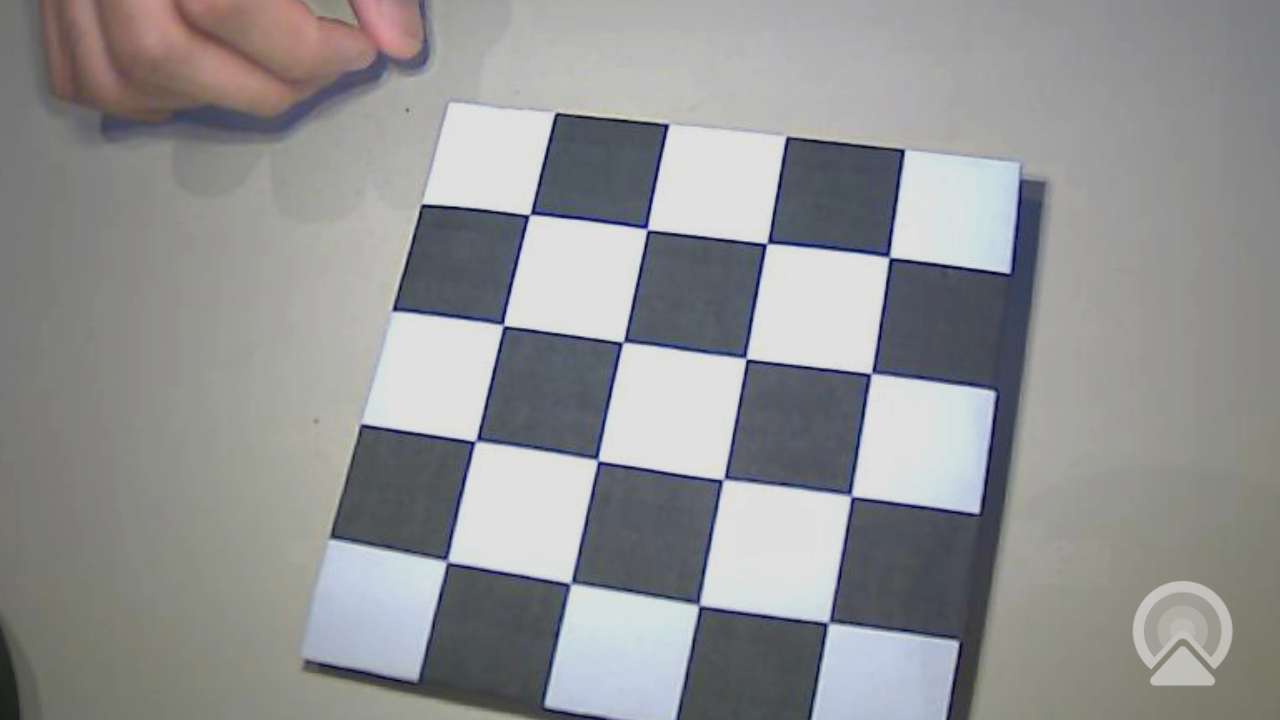
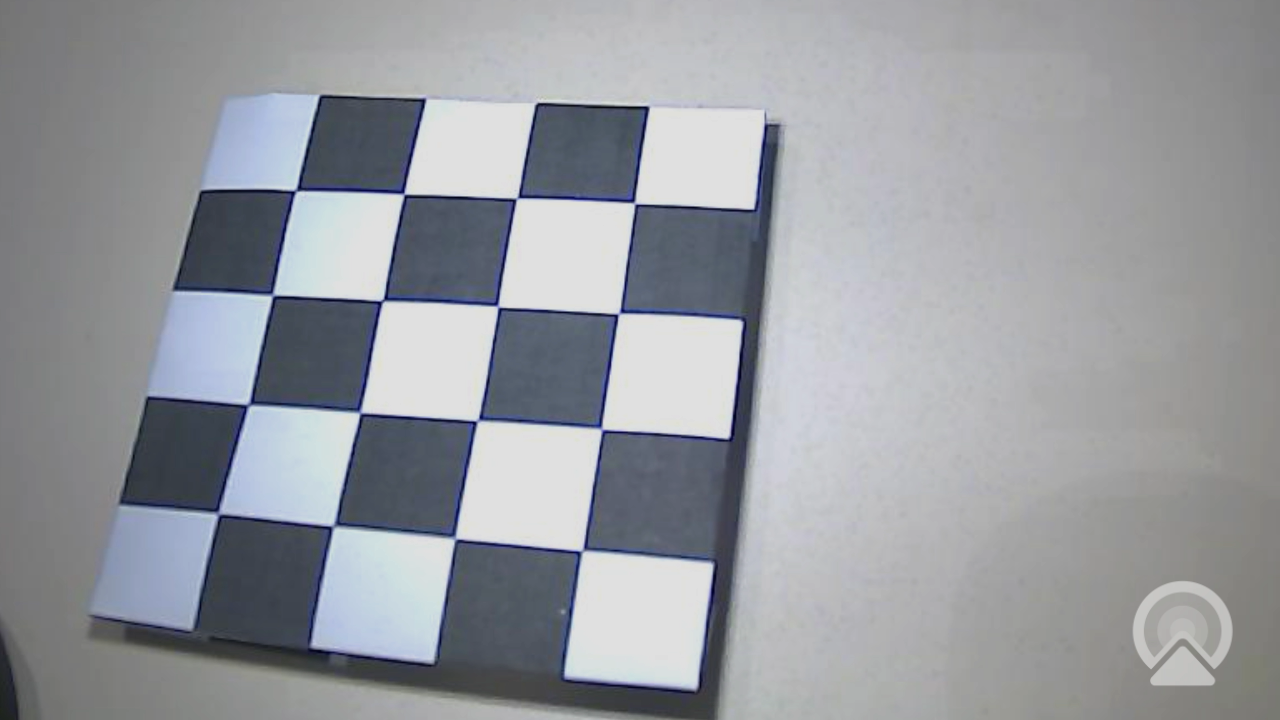
txt

diff --git a/source_code/AI/main_motion_plan.py b/source_code/AI/main_motion_plan.py
@@ -1,103 +1,96 @@
 def run_motion(ctx):
-    """Stack order requested by user: Blue on green and red on blue.
+    """Stacking plan based on current block coordinates.
 
-    Final stack:
-    bottom = green
-    middle = blue
-    top = red
+    User request:
+    - Place RED block on the GREEN block
+    - Place BLUE block on the RED block
 
-    Important:
-    - Add +90 to the true yaw angles of the blocks in code for gripper alignment.
-    - Block object positions are already available/consistent with the current RoboDK context.
+    Note: Add +90 to the true yaw angles of the blocks in this generated code
+    to align the gripper laterally for gripping.
     """
 
     robot = ctx.robot
 
     # ------------------------------------------------------------
-    # World coordinates of blocks (from current query)
+    # World coordinates of blocks (from get_world_coords_string)
     # ------------------------------------------------------------
-    red_x, red_y = 20.162, 9.737
-    red_yaw = 91.0783 + 90
+    red_x, red_y = 82.791, 56.399
+    red_yaw = 55.0003 + 90
 
-    green_x, green_y = 161.319, 75.452
-    green_yaw = 14.3145 + 90
+    green_x, green_y = 21.822, -22.004
+    green_yaw = 149.8728 + 90
 
-    blue_x, blue_y = 81.481, 49.459
-    blue_yaw = 52.3926 + 90
+    blue_x, blue_y = -13.848, 72.704
+    blue_yaw = 81.0174 + 90
 
-    # Z parameters
+    # ------------------------------------------------------------
+    # Z heights
+    # ------------------------------------------------------------
     approach_z = ctx.approach_z
     pick_z = ctx.pick_z
     place_base_z = ctx.place_base_z
     block_thickness = ctx.block_thickness
 
-    # Use green's footprint as the stack location
+    # Stack at the GREEN x/y (bottom)
     stack_x = green_x
     stack_y = green_y
-    stack_orient = green_yaw
 
     green_place_z = place_base_z
-    blue_place_z = place_base_z + block_thickness
-    red_place_z = place_base_z + block_thickness * 2.0
+    red_place_z = place_base_z + block_thickness
+    blue_place_z = place_base_z + block_thickness * 2.0
+
+    # Use GREEN orientation for all place steps so alignment is consistent
+    stack_orient = green_yaw
 
     # ------------------------------------------------------------
-    # Pick GREEN (bottom)
+    # Pick GREEN
     # ------------------------------------------------------------
     ctx.open_gripper("green")
-
     robot.MoveL(ctx.pose_xyz_yaw(green_x, green_y, approach_z, green_yaw))
     robot.MoveL(ctx.pose_xyz_yaw(green_x, green_y, pick_z, green_yaw))
-
     ctx.close_gripper("green")
-
     robot.MoveL(ctx.pose_xyz_yaw(green_x, green_y, approach_z, green_yaw))
 
-    # Place GREEN
+    # ------------------------------------------------------------
+    # Place GREEN (bottom)
+    # ------------------------------------------------------------
     robot.MoveL(ctx.pose_xyz_yaw(stack_x, stack_y, approach_z, stack_orient))
     robot.MoveL(ctx.pose_xyz_yaw(stack_x, stack_y, green_place_z, stack_orient))
-
     ctx.open_gripper("green")
-
     robot.MoveL(ctx.pose_xyz_yaw(stack_x, stack_y, approach_z, stack_orient))
 
     # ------------------------------------------------------------
-    # Pick BLUE (middle)
-    # ------------------------------------------------------------
-    ctx.open_gripper("blue")
-
-    robot.MoveL(ctx.pose_xyz_yaw(blue_x, blue_y, approach_z, blue_yaw))
-    robot.MoveL(ctx.pose_xyz_yaw(blue_x, blue_y, pick_z, blue_yaw))
-
-    ctx.close_gripper("blue")
-
-    robot.MoveL(ctx.pose_xyz_yaw(blue_x, blue_y, approach_z, blue_yaw))
-
-    # Place BLUE on GREEN
-    robot.MoveL(ctx.pose_xyz_yaw(stack_x, stack_y, approach_z, stack_orient))
-    robot.MoveL(ctx.pose_xyz_yaw(stack_x, stack_y, blue_place_z, stack_orient))
-
-    ctx.open_gripper("blue")
-
-    robot.MoveL(ctx.pose_xyz_yaw(stack_x, stack_y, approach_z, stack_orient))
-
-    # ------------------------------------------------------------
-    # Pick RED (top)
+    # Pick RED
     # ------------------------------------------------------------
     ctx.open_gripper("red")
-
     robot.MoveL(ctx.pose_xyz_yaw(red_x, red_y, approach_z, red_yaw))
     robot.MoveL(ctx.pose_xyz_yaw(red_x, red_y, pick_z, red_yaw))
-
     ctx.close_gripper("red")
-
     robot.MoveL(ctx.pose_xyz_yaw(red_x, red_y, approach_z, red_yaw))
 
-    # Place RED on BLUE
+    # ------------------------------------------------------------
+    # Place RED on GREEN
+    # ------------------------------------------------------------
     robot.MoveL(ctx.pose_xyz_yaw(stack_x, stack_y, approach_z, stack_orient))
     robot.MoveL(ctx.pose_xyz_yaw(stack_x, stack_y, red_place_z, stack_orient))
-
     ctx.open_gripper("red")
+    robot.MoveL(ctx.pose_xyz_yaw(stack_x, stack_y, approach_z, stack_orient))
 
+    # ------------------------------------------------------------
+    # Pick BLUE
+    # ------------------------------------------------------------
+    ctx.open_gripper("blue")
+    robot.MoveL(ctx.pose_xyz_yaw(blue_x, blue_y, approach_z, blue_yaw))
+    robot.MoveL(ctx.pose_xyz_yaw(blue_x, blue_y, pick_z, blue_yaw))
+    ctx.close_gripper("blue")
+    robot.MoveL(ctx.pose_xyz_yaw(blue_x, blue_y, approach_z, blue_yaw))
+
+    # ------------------------------------------------------------
+    # Place BLUE on RED
+    # ------------------------------------------------------------
+    robot.MoveL(ctx.pose_xyz_yaw(stack_x, stack_y, approach_z, stack_orient))
+    robot.MoveL(ctx.pose_xyz_yaw(stack_x, stack_y, blue_place_z, stack_orient))
+    ctx.open_gripper("blue")
     robot.MoveL(ctx.pose_xyz_yaw(stack_x, stack_y, approach_z, stack_orient))
 
     # Return home

diff --git a/source_code/vision/object_segmentation/image_preprocessing.py b/source_code/vision/object_segmentation/image_preprocessing.py
@@ -7,7 +7,7 @@ from source_code.utility.paths import OBJ_SEGMENTATION_DIR
 def threshold_image_RGB(im):
 #Only 5 params can be customised: The threshold vals for R,G and B channels and the min and max areas for iblobs function.
     #im = cv2.imread(im)
-    thresh_vals = [0.45, 0.39, 0.55];
+    thresh_vals = [0.45, 0.42, 0.55];
     B, G, R = cv2.split(im)
 
     R = R.astype(np.float32)
@@ -32,22 +32,25 @@ def threshold_image_RGB(im):
        
 
     r_thresh = (r > r_thresh_val).astype('uint8') * 255
+    
     g_thresh = (g>g_thresh_val).astype('uint8')*255
+    
     b_thresh = (b>b_thresh_val).astype('uint8')*255
+    
      
      # Morphological cleanup
     kernel = np.ones((5,5), np.uint8)
-    r_thresh = cv2.morphologyEx(r_thresh,cv2.MORPH_ERODE,kernel)
-    r_thresh = cv2.morphologyEx(r_thresh,cv2.MORPH_OPEN,kernel)
-    r_thresh = cv2.morphologyEx(r_thresh,cv2.MORPH_DILATE,kernel)
+    # r_thresh = cv2.morphologyEx(r_thresh,cv2.MORPH_ERODE,kernel)
+    # r_thresh = cv2.morphologyEx(r_thresh,cv2.MORPH_OPEN,kernel)
+    # r_thresh = cv2.morphologyEx(r_thresh,cv2.MORPH_DILATE,kernel)
 
-    g_thresh = cv2.morphologyEx(g_thresh,cv2.MORPH_ERODE,kernel)
-    g_thresh = cv2.morphologyEx(g_thresh,cv2.MORPH_OPEN,kernel)
-    g_thresh = cv2.morphologyEx(g_thresh,cv2.MORPH_DILATE,kernel)
+    # g_thresh = cv2.morphologyEx(g_thresh,cv2.MORPH_ERODE,kernel)
+    # g_thresh = cv2.morphologyEx(g_thresh,cv2.MORPH_OPEN,kernel)
+    # g_thresh = cv2.morphologyEx(g_thresh,cv2.MORPH_DILATE,kernel)
 
-    b_thresh = cv2.morphologyEx(b_thresh,cv2.MORPH_ERODE,kernel)
-    b_thresh = cv2.morphologyEx(b_thresh, cv2.MORPH_OPEN, kernel)
-    b_thresh = cv2.morphologyEx(b_thresh,cv2.MORPH_DILATE,kernel)
+    # b_thresh = cv2.morphologyEx(b_thresh,cv2.MORPH_ERODE,kernel)
+    # b_thresh = cv2.morphologyEx(b_thresh, cv2.MORPH_OPEN, kernel)
+    # b_thresh = cv2.morphologyEx(b_thresh,cv2.MORPH_DILATE,kernel)
 
 
     #_,r_thresh =cv2.threshold(cv2.imread('scripts/Bin_img.jpeg',cv2.IMREAD_GRAYSCALE),127,255,cv2.THRESH_BINARY); #(r>0.6).astype('uint8')*255;

diff --git a/source_code/vision/homography/run_homography.py b/source_code/vision/homography/run_homography.py
@@ -87,9 +87,9 @@ print(image_pts)
 #  The order of these points must match the order in which they were clicked in the image for accurate homography computation.
 world_pts = np.array([
     [0, 0],
-    [120, 0],
-    [120, 120],
-    [0, 120]
+    [90, 0],
+    [90, 90],
+    [0, 90]
 ], dtype=np.float32)
 
 print("\nWorld points:")

diff --git a/source_code/vision/object_segmentation/object_segmentation.py b/source_code/vision/object_segmentation/object_segmentation.py
@@ -135,7 +135,7 @@ def I_pro(im):
             
     except Exception as e:
         print("No blue block found")
- 
+   
     processed_data = {
             "red_block_position": m_red_center.tolist(),
             "red_block_orientation": m_red[0].theta*(180/math.pi),
